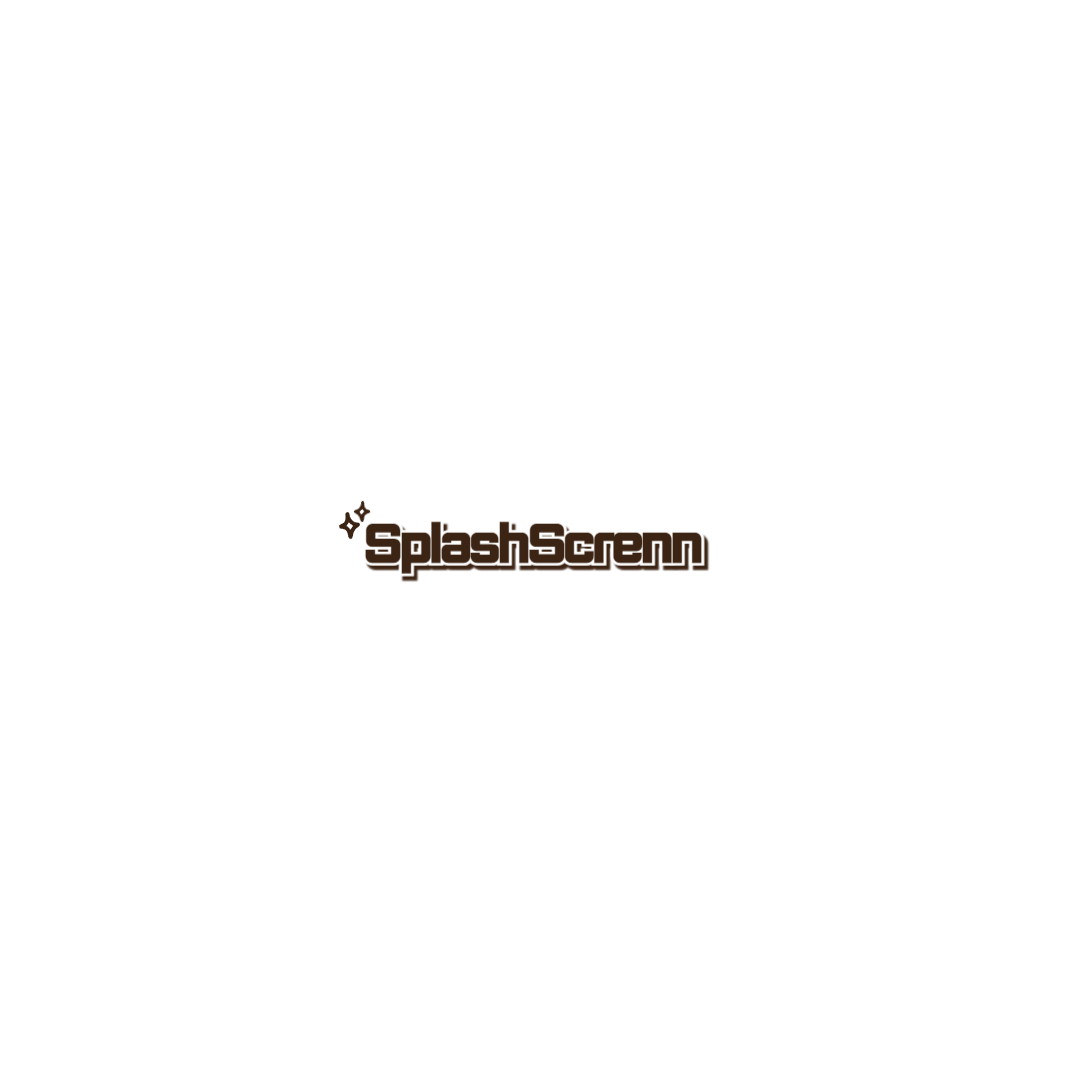
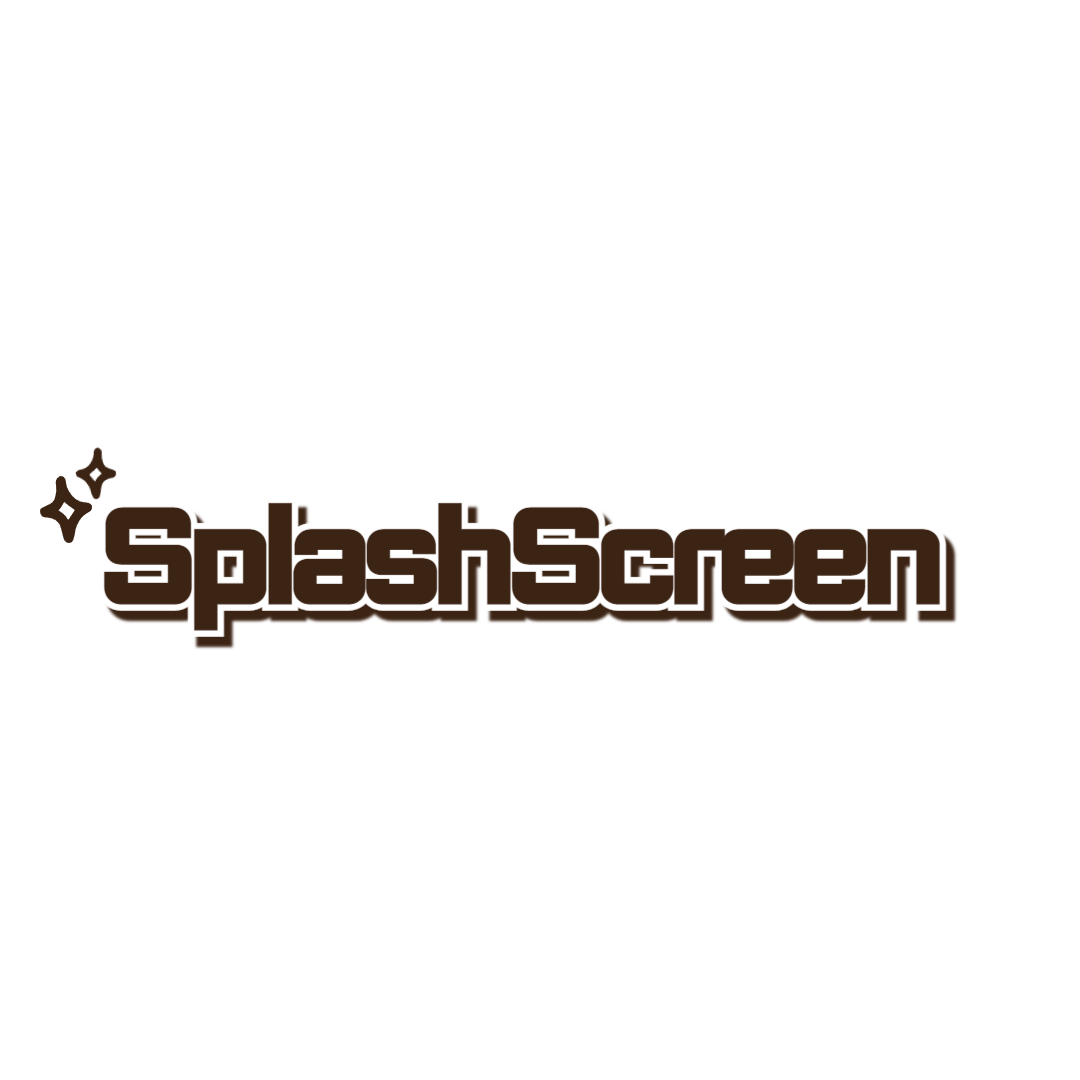
title이미지 변경

Changed region(s): [[0.0306, 0.4278, 0.8861, 0.6111]]

diff --git a/lib/main.dart b/lib/main.dart
@@ -14,16 +14,22 @@ class SplashScrenn extends StatelessWidget{
           decoration: BoxDecoration(
             color: Color(0XFFFFFFFF),
           ),
-          child: Column(
+          child: Row(
             mainAxisAlignment: MainAxisAlignment.center,
             children:[
-              Image.asset(
-                'assets/title.png',
-              ),
-              CircularProgressIndicator(
-                valueColor: AlwaysStoppedAnimation(
-                  Colors.black
-                ),
+              Column(
+                mainAxisAlignment: MainAxisAlignment.center,
+                children: [
+                  Image.asset(
+                    'assets/title.png',
+                    width: 200,
+                  ),
+                  CircularProgressIndicator(
+                    valueColor: AlwaysStoppedAnimation(
+                      Colors.black
+                    ),
+                  ),
+                ],
               ),
             ]
           ),
